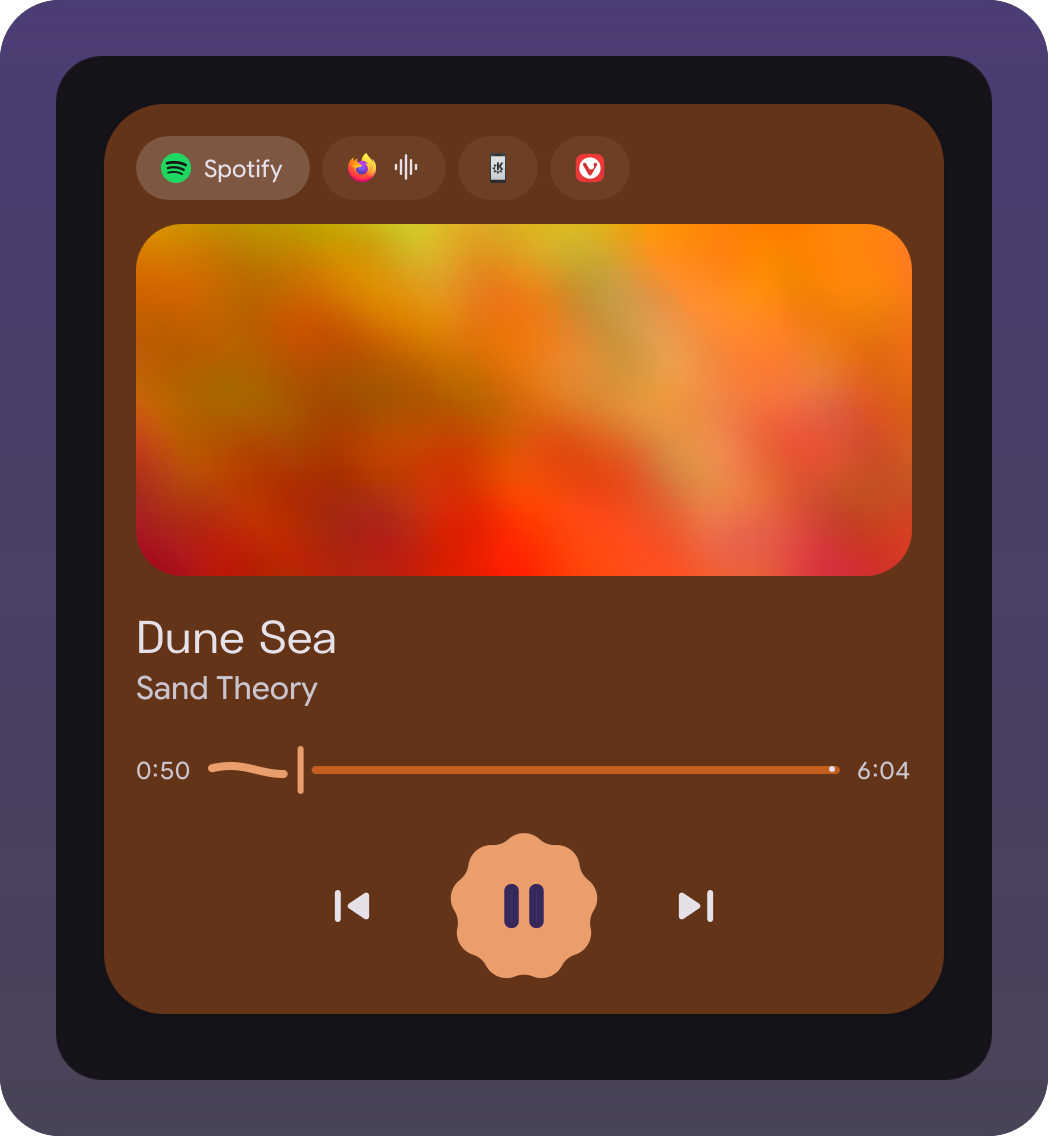
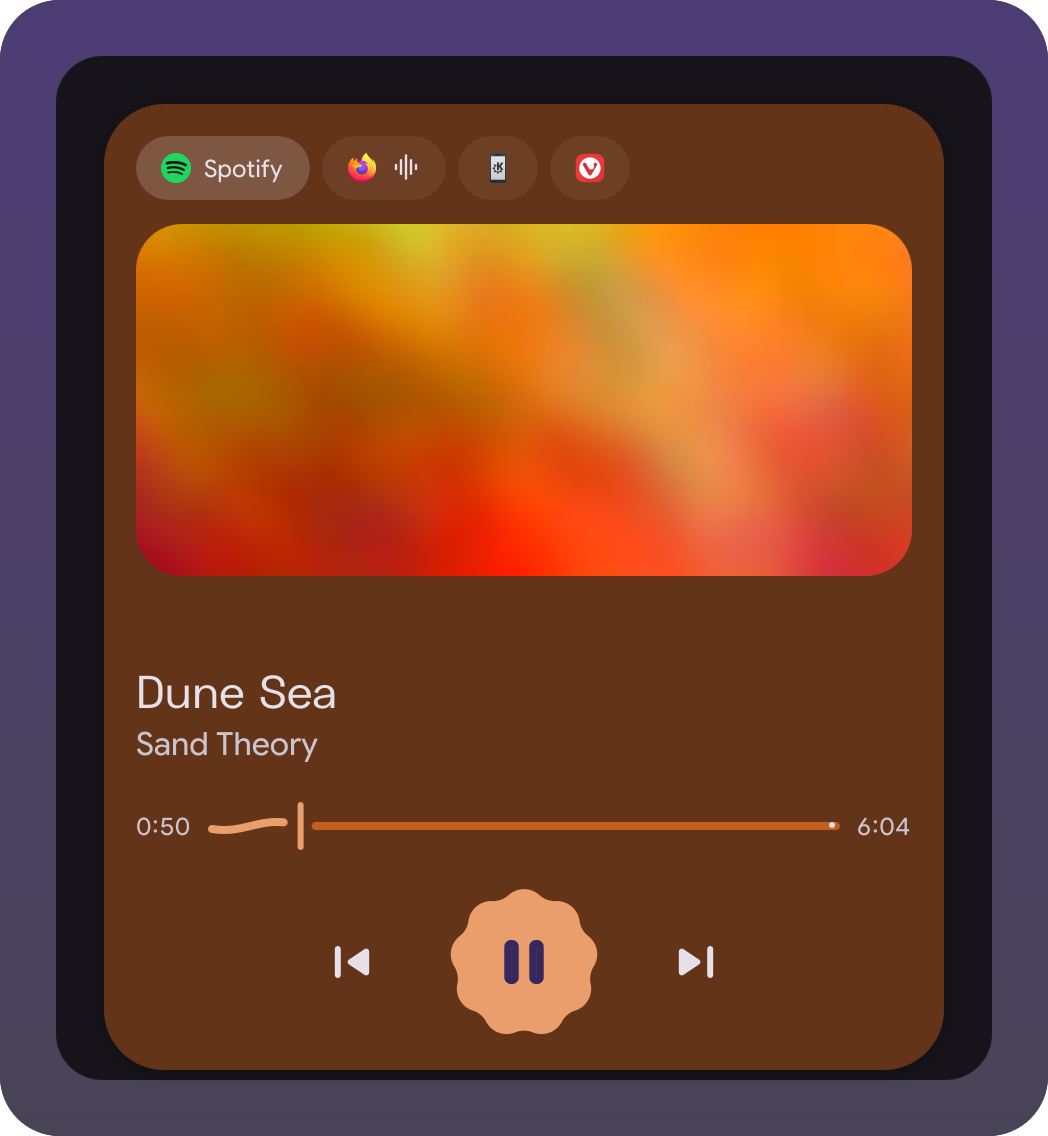
Player: sticky hero, shell-colored card, popup UX fixes
The hero stays on the player it opened with, so pausing no longer jumps to
another playing one. The hero card uses the shell popup surface instead of
the possibly translucent layer0. Fixed card height across tracks, tint held
until the next cover is ready, playing marker on list rows, chip tooltips,
no time labels for streams without length, stable row order after a pick,
48px row buttons, and Space/Left/Right keys.

Changed region(s): [[0.0916, 0.5238, 0.916, 0.9551], [0.6412, 0.7702, 0.7023, 0.8627], [0.3053, 0.7702, 0.3664, 0.8627]]

diff --git a/HeroView.qml b/HeroView.qml
@@ -48,7 +48,7 @@ Item {
         width: root.width - Appearance.sizes.elevationMargin * 2
         implicitHeight: root.hero ? content.implicitHeight + 32 : 200
         radius: Appearance.rounding.large
-        color: Appearance.colors.colLayer0
+        color: Appearance.m3colors.m3surfaceContainer
         border.width: 1
         border.color: Appearance.colors.colLayer0Border
 
@@ -91,9 +91,20 @@ Item {
                             elide: Text.ElideRight
                         }
                     }
+                    FontMetrics {
+                        id: titleMetrics
+                        font: title.font
+                    }
+                    FontMetrics {
+                        id: artistMetrics
+                        font: artist.font
+                    }
                     StyledText {
+                        id: title
                         Layout.fillWidth: true
                         Layout.topMargin: 4
+                        Layout.minimumHeight: titleMetrics.height * 2
+                        verticalAlignment: Text.AlignBottom
                         text: StringUtils.cleanMusicTitle(root.hero?.trackTitle) || Translation.tr("Untitled")
                         font.family: Appearance.font.family.title
                         font.pixelSize: Appearance.font.pixelSize.huge
@@ -104,8 +115,9 @@ Item {
                         elide: Text.ElideRight
                     }
                     StyledText {
+                        id: artist
                         Layout.fillWidth: true
-                        visible: text.length > 0
+                        Layout.minimumHeight: artistMetrics.height
                         text: root.hero?.trackArtist ?? ""
                         font.pixelSize: Appearance.font.pixelSize.normal
                         color: Appearance.colors.colSubtext
@@ -121,6 +133,7 @@ Item {
                     player: root.hero
                 }
                 RowLayout {
+                    visible: (root.hero?.length ?? 0) > 0
                     TimeLabel {
                         text: StringUtils.friendlyTimeForSeconds(root.hero?.position ?? 0)
                     }
@@ -168,7 +181,7 @@ Item {
                 visible: root.rest.length > 0
                 implicitHeight: restList.implicitHeight + 8
                 radius: Appearance.rounding.normal
-                color: Appearance.colors.colLayer2
+                color: Appearance.colors.colSurfaceContainerHigh
 
                 ColumnLayout {
                     id: restList
@@ -184,8 +197,8 @@ Item {
                             Layout.fillWidth: true
                             implicitHeight: 56
                             buttonRadius: Appearance.rounding.small
-                            colBackgroundHover: Appearance.colors.colLayer2Hover
-                            colRipple: Appearance.colors.colLayer2Active
+                            colBackgroundHover: ColorUtils.mix(Appearance.colors.colSurfaceContainerHigh, Appearance.colors.colOnLayer2, 0.9)
+                            colRipple: ColorUtils.mix(Appearance.colors.colSurfaceContainerHigh, Appearance.colors.colOnLayer2, 0.8)
                             onClicked: root.picked(row.modelData)
                             contentItem: RowLayout {
                                 spacing: 12
@@ -198,12 +211,21 @@ Item {
                                 ColumnLayout {
                                     Layout.fillWidth: true
                                     spacing: 0
-                                    StyledText {
-                                        Layout.fillWidth: true
-                                        text: StringUtils.cleanMusicTitle(row.modelData.trackTitle) || Translation.tr("Untitled")
-                                        font.pixelSize: Appearance.font.pixelSize.normal
-                                        color: Appearance.colors.colOnLayer2
-                                        elide: Text.ElideRight
+                                    RowLayout {
+                                        spacing: 6
+                                        MaterialSymbol {
+                                            visible: row.modelData.isPlaying
+                                            text: "graphic_eq"
+                                            iconSize: 16
+                                            color: Appearance.colors.colPrimary
+                                        }
+                                        StyledText {
+                                            Layout.fillWidth: true
+                                            text: StringUtils.cleanMusicTitle(row.modelData.trackTitle) || Translation.tr("Untitled")
+                                            font.pixelSize: Appearance.font.pixelSize.normal
+                                            color: Appearance.colors.colOnLayer2
+                                            elide: Text.ElideRight
+                                        }
                                     }
                                     StyledText {
                                         Layout.fillWidth: true
@@ -215,8 +237,8 @@ Item {
                                 }
                                 RippleButton {
                                     Layout.rightMargin: 4
-                                    implicitWidth: 40
-                                    implicitHeight: 40
+                                    implicitWidth: 48
+                                    implicitHeight: 48
                                     buttonRadius: Appearance.rounding.full
                                     enabled: row.modelData.canTogglePlaying ?? false
                                     onClicked: row.modelData.togglePlaying()

diff --git a/PagerView.qml b/PagerView.qml
@@ -28,11 +28,32 @@ Item {
         depth: 0
         rescaleSize: 1
     }
+    property color artColor: Appearance.m3colors.m3secondaryContainer
+    property bool tinted: false
+    Behavior on artColor {
+        animation: Appearance.animation.elementMoveFast.colorAnimation.createObject(this)
+    }
+    Connections {
+        target: quantizer
+        function onColorsChanged() {
+            if (cover.source && quantizer.colors.length > 0) {
+                root.artColor = quantizer.colors[0]
+                root.tinted = true
+            }
+        }
+    }
+    Connections {
+        target: cover
+        function onUrlChanged() {
+            if (!cover.url)
+                root.tinted = false
+        }
+    }
     AdaptedMaterialScheme {
         id: artTint
-        color: quantizer.colors[0] ?? Appearance.m3colors.m3secondaryContainer
+        color: root.artColor
     }
-    readonly property QtObject tint: cover.source && quantizer.colors.length > 0 ? artTint : Appearance.colors
+    readonly property QtObject tint: root.tinted ? artTint : Appearance.colors
     // Art tints run light, too pale for 3:1 on a light card
     readonly property color accent: root.tint === artTint && !Appearance.m3colors.darkmode
         ? ColorUtils.mix(artTint.colPrimary, Appearance.colors.colOnLayer0, 0.55) : root.tint.colPrimary
@@ -102,6 +123,9 @@ Item {
                         colBackgroundHover: ColorUtils.transparentize(Appearance.colors.colOnLayer0, 0.75)
                         colRipple: ColorUtils.transparentize(Appearance.colors.colOnLayer0, 0.65)
                         onClicked: root.picked(chip.modelData)
+                        StyledToolTip {
+                            text: [chip.modelData.identity, StringUtils.cleanMusicTitle(chip.modelData.trackTitle)].filter(s => s).join(" · ")
+                        }
                         contentItem: Item {
                             RowLayout {
                                 id: chipRow
@@ -140,8 +164,19 @@ Item {
             ColumnLayout {
                 Layout.topMargin: 4
                 spacing: 2
+                FontMetrics {
+                    id: titleMetrics
+                    font: title.font
+                }
+                FontMetrics {
+                    id: artistMetrics
+                    font: artist.font
+                }
                 StyledText {
+                    id: title
                     Layout.fillWidth: true
+                    Layout.minimumHeight: titleMetrics.height * 2
+                    verticalAlignment: Text.AlignBottom
                     text: StringUtils.cleanMusicTitle(root.hero?.trackTitle) || Translation.tr("Untitled")
                     font.family: Appearance.font.family.expressive
                     font.pixelSize: Appearance.font.pixelSize.hugeass
@@ -151,8 +186,9 @@ Item {
                     elide: Text.ElideRight
                 }
                 StyledText {
+                    id: artist
                     Layout.fillWidth: true
-                    visible: text.length > 0
+                    Layout.minimumHeight: artistMetrics.height
                     text: root.hero?.trackArtist ?? ""
                     font.pixelSize: Appearance.font.pixelSize.normal
                     color: Appearance.m3colors.m3onSurfaceVariant
@@ -163,6 +199,7 @@ Item {
             RowLayout {
                 spacing: 8
                 TimeLabel {
+                    visible: (root.hero?.length ?? 0) > 0
                     text: StringUtils.friendlyTimeForSeconds(root.hero?.position ?? 0)
                 }
                 TrackProgress {
@@ -173,6 +210,7 @@ Item {
                     trackColor: root.tint.colSecondaryContainer
                 }
                 TimeLabel {
+                    visible: (root.hero?.length ?? 0) > 0
                     text: StringUtils.friendlyTimeForSeconds(root.hero?.length ?? 0)
                 }
             }

diff --git a/MediaView.qml b/MediaView.qml
@@ -9,17 +9,28 @@ import "hero.js" as Hero
 Item {
     id: root
     property MprisPlayer picked: null
+    property var slots: []
     readonly property var players: MprisController.players
     readonly property MprisPlayer hero: Hero.pick(root.picked, MprisController.activePlayer, root.players)
+    readonly property var rest: Hero.rows(root.slots, root.hero, root.players)
     readonly property bool pager: WidgetCatalog.option("player", "pager") ?? false
 
     implicitWidth: Appearance.sizes.mediaControlsWidth
     implicitHeight: view.implicitHeight
+    focus: true
+
+    onHeroChanged: if (root.hero && !root.picked) root.picked = root.hero
+    Component.onCompleted: if (root.hero) root.picked = root.hero
 
     function pick(player) {
+        root.slots = Hero.swap(root.rest, player, root.hero)
         root.picked = player
         MprisController.trackedPlayer = player
     }
+
+    Keys.onSpacePressed: if (root.hero?.canTogglePlaying) root.hero.togglePlaying()
+    Keys.onLeftPressed: if (root.hero?.canGoPrevious) root.hero.previous()
+    Keys.onRightPressed: if (root.hero?.canGoNext) root.hero.next()
 
     Timer {
         running: root.hero?.isPlaying ?? false
@@ -37,7 +48,7 @@ Item {
         id: heroView
         HeroView {
             hero: root.hero
-            rest: root.players.filter(p => p !== root.hero)
+            rest: root.rest
             onPicked: player => root.pick(player)
         }
     }

diff --git a/demo/DemoPlayer.qml b/demo/DemoPlayer.qml
@@ -30,6 +30,9 @@ Item {
             { "name": "a picked player that went away falls back", "got": Hero.pick(symphony, null, all) === dunes, "want": true },
             { "name": "nothing playing leads with the first", "got": Hero.pick(null, null, [tide, moss]) === tide, "want": true },
             { "name": "no players, no hero", "got": Hero.pick(null, null, []), "want": null },
+            { "name": "rows skip the hero and keep the player order", "got": Hero.rows([], dunes, all), "want": [clip, tide, moss] },
+            { "name": "picking a row hands its slot to the old hero", "got": Hero.swap([clip, tide, moss], tide, dunes), "want": [clip, dunes, moss] },
+            { "name": "rows keep the slots order and append newcomers", "got": Hero.rows([moss, clip], tide, all), "want": [moss, clip, dunes] },
             { "name": "the view takes room with players", "got": view.item.implicitHeight > 200, "want": root.scene !== 2 }
         ]
     }
@@ -94,7 +97,7 @@ Item {
         id: heroView
         HeroView {
             hero: root.hero
-            rest: root.players.filter(p => p !== root.hero)
+            rest: Hero.rows([], root.hero, root.players)
         }
     }
     Component {

diff --git a/hero.js b/hero.js
@@ -5,3 +5,14 @@ function pick(picked, active, players) {
     return [picked, active].find(p => p && players.includes(p))
         ?? players.find(p => p.isPlaying) ?? players[0] ?? null
 }
+
+/** The list under the hero: `slots` order kept, players that came since appended. */
+function rows(slots, hero, players) {
+    const kept = slots.filter(p => p !== hero && players.includes(p))
+    return [...kept, ...players.filter(p => p !== hero && !kept.includes(p))]
+}
+
+/** Slots after `picked` moves up: the old hero takes its place, so the other rows stay put. */
+function swap(rows, picked, hero) {
+    return rows.map(p => p === picked ? hero : p)
+}
